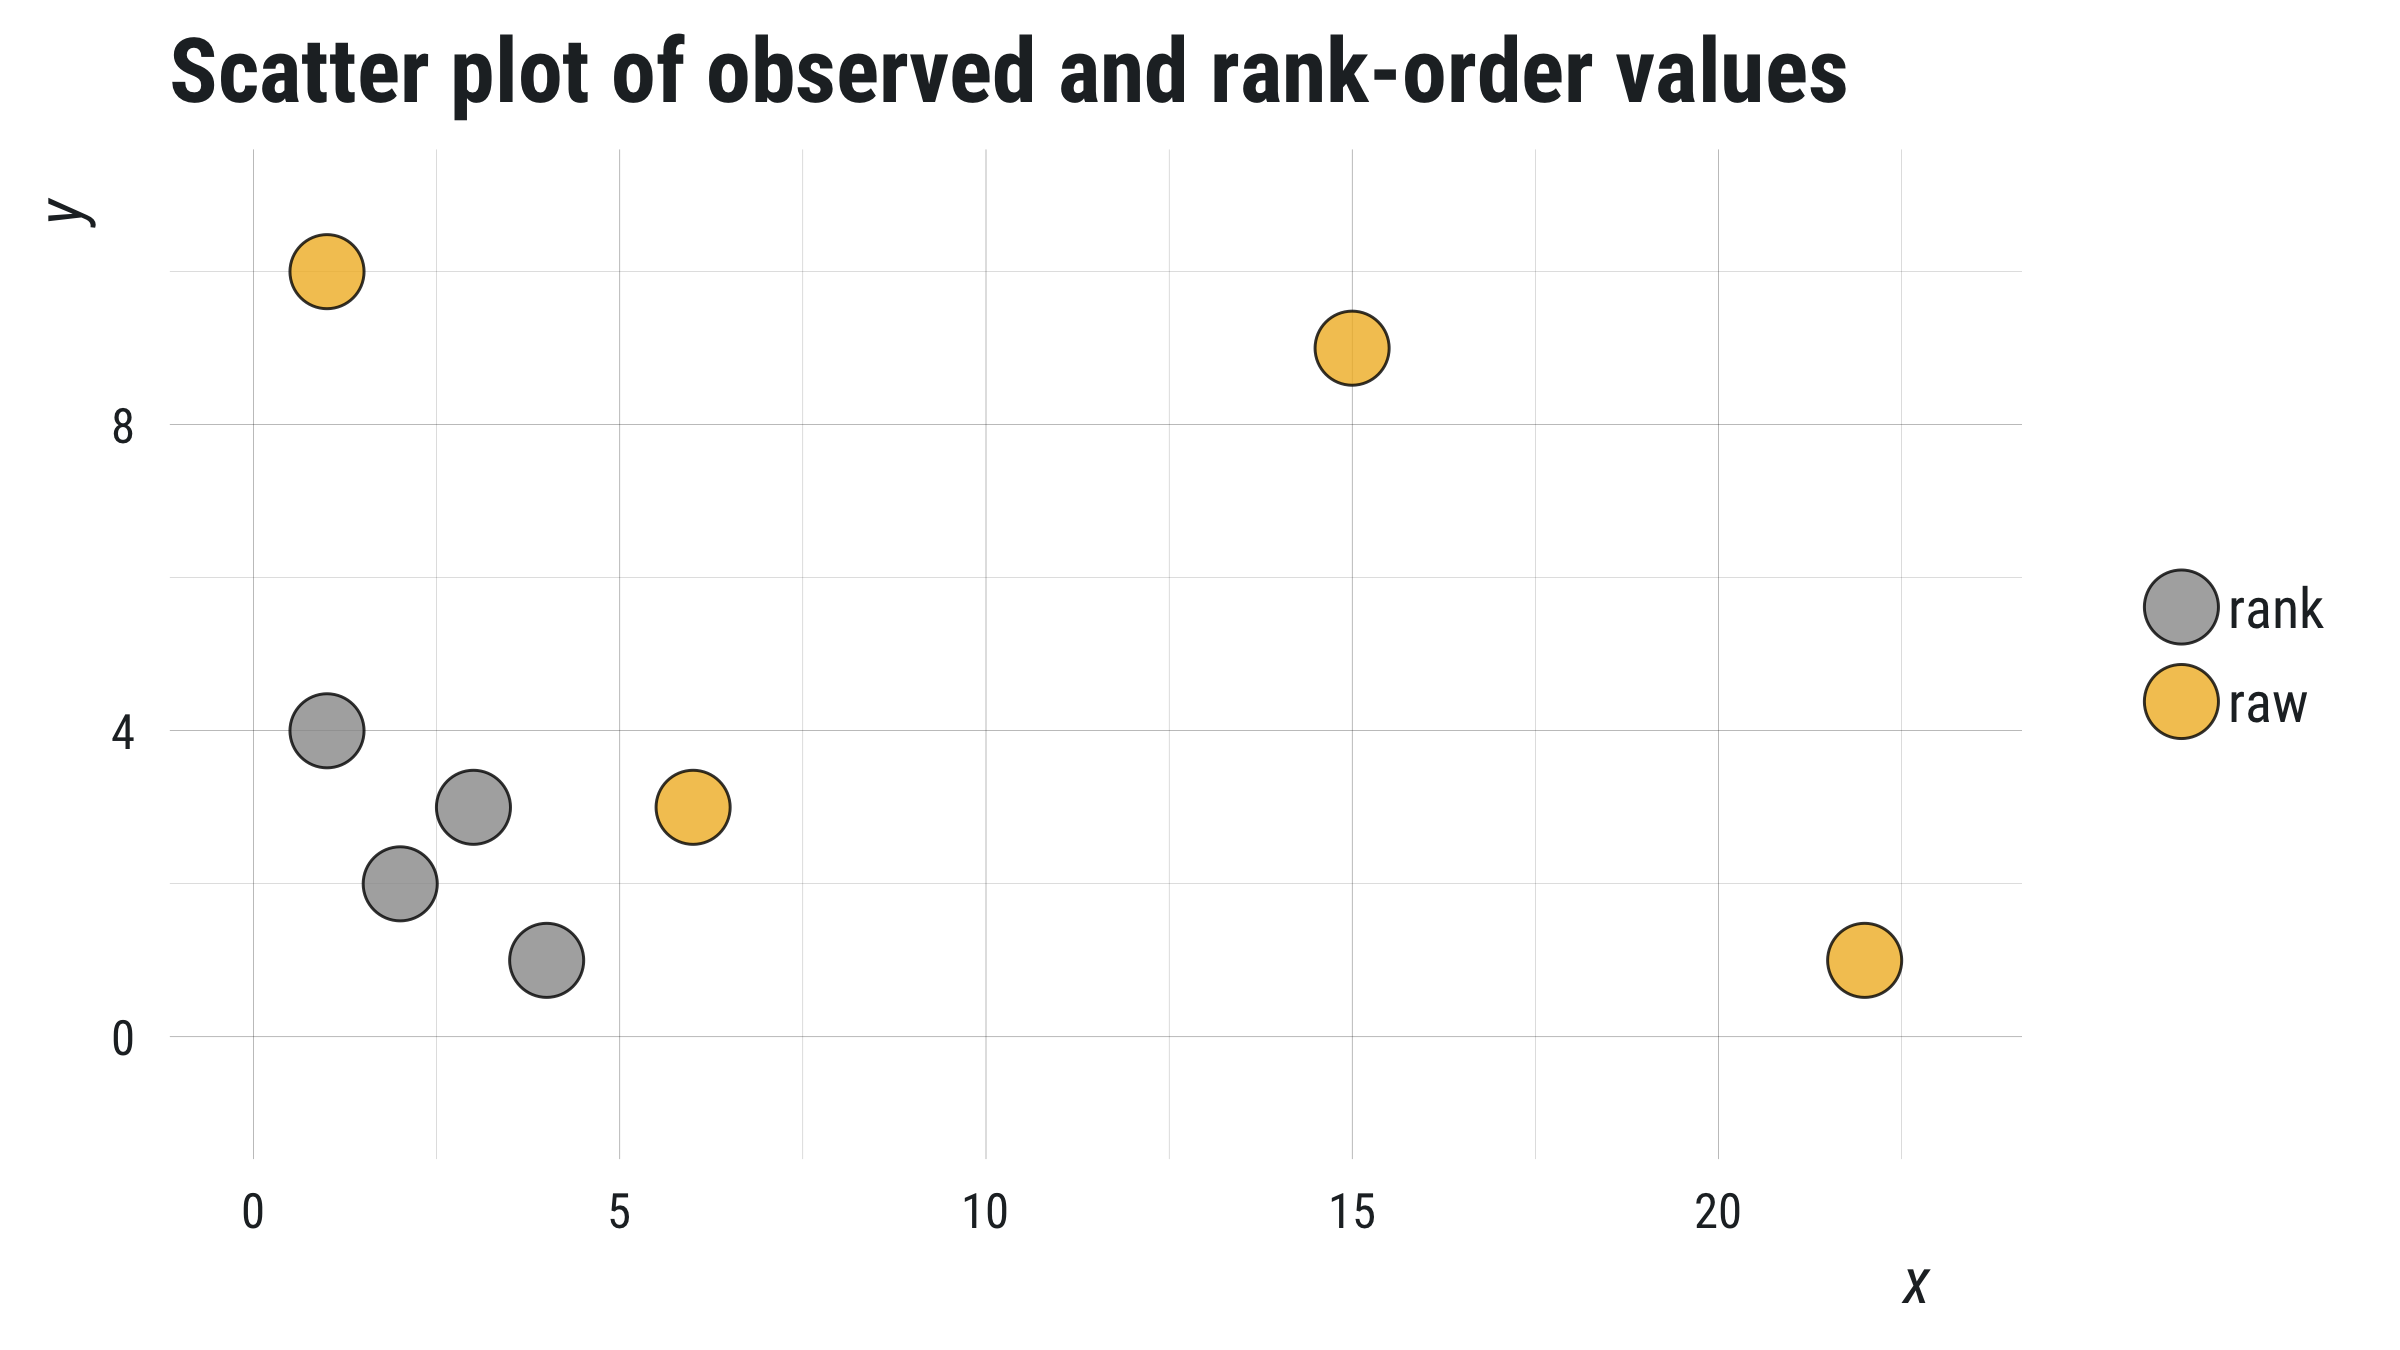
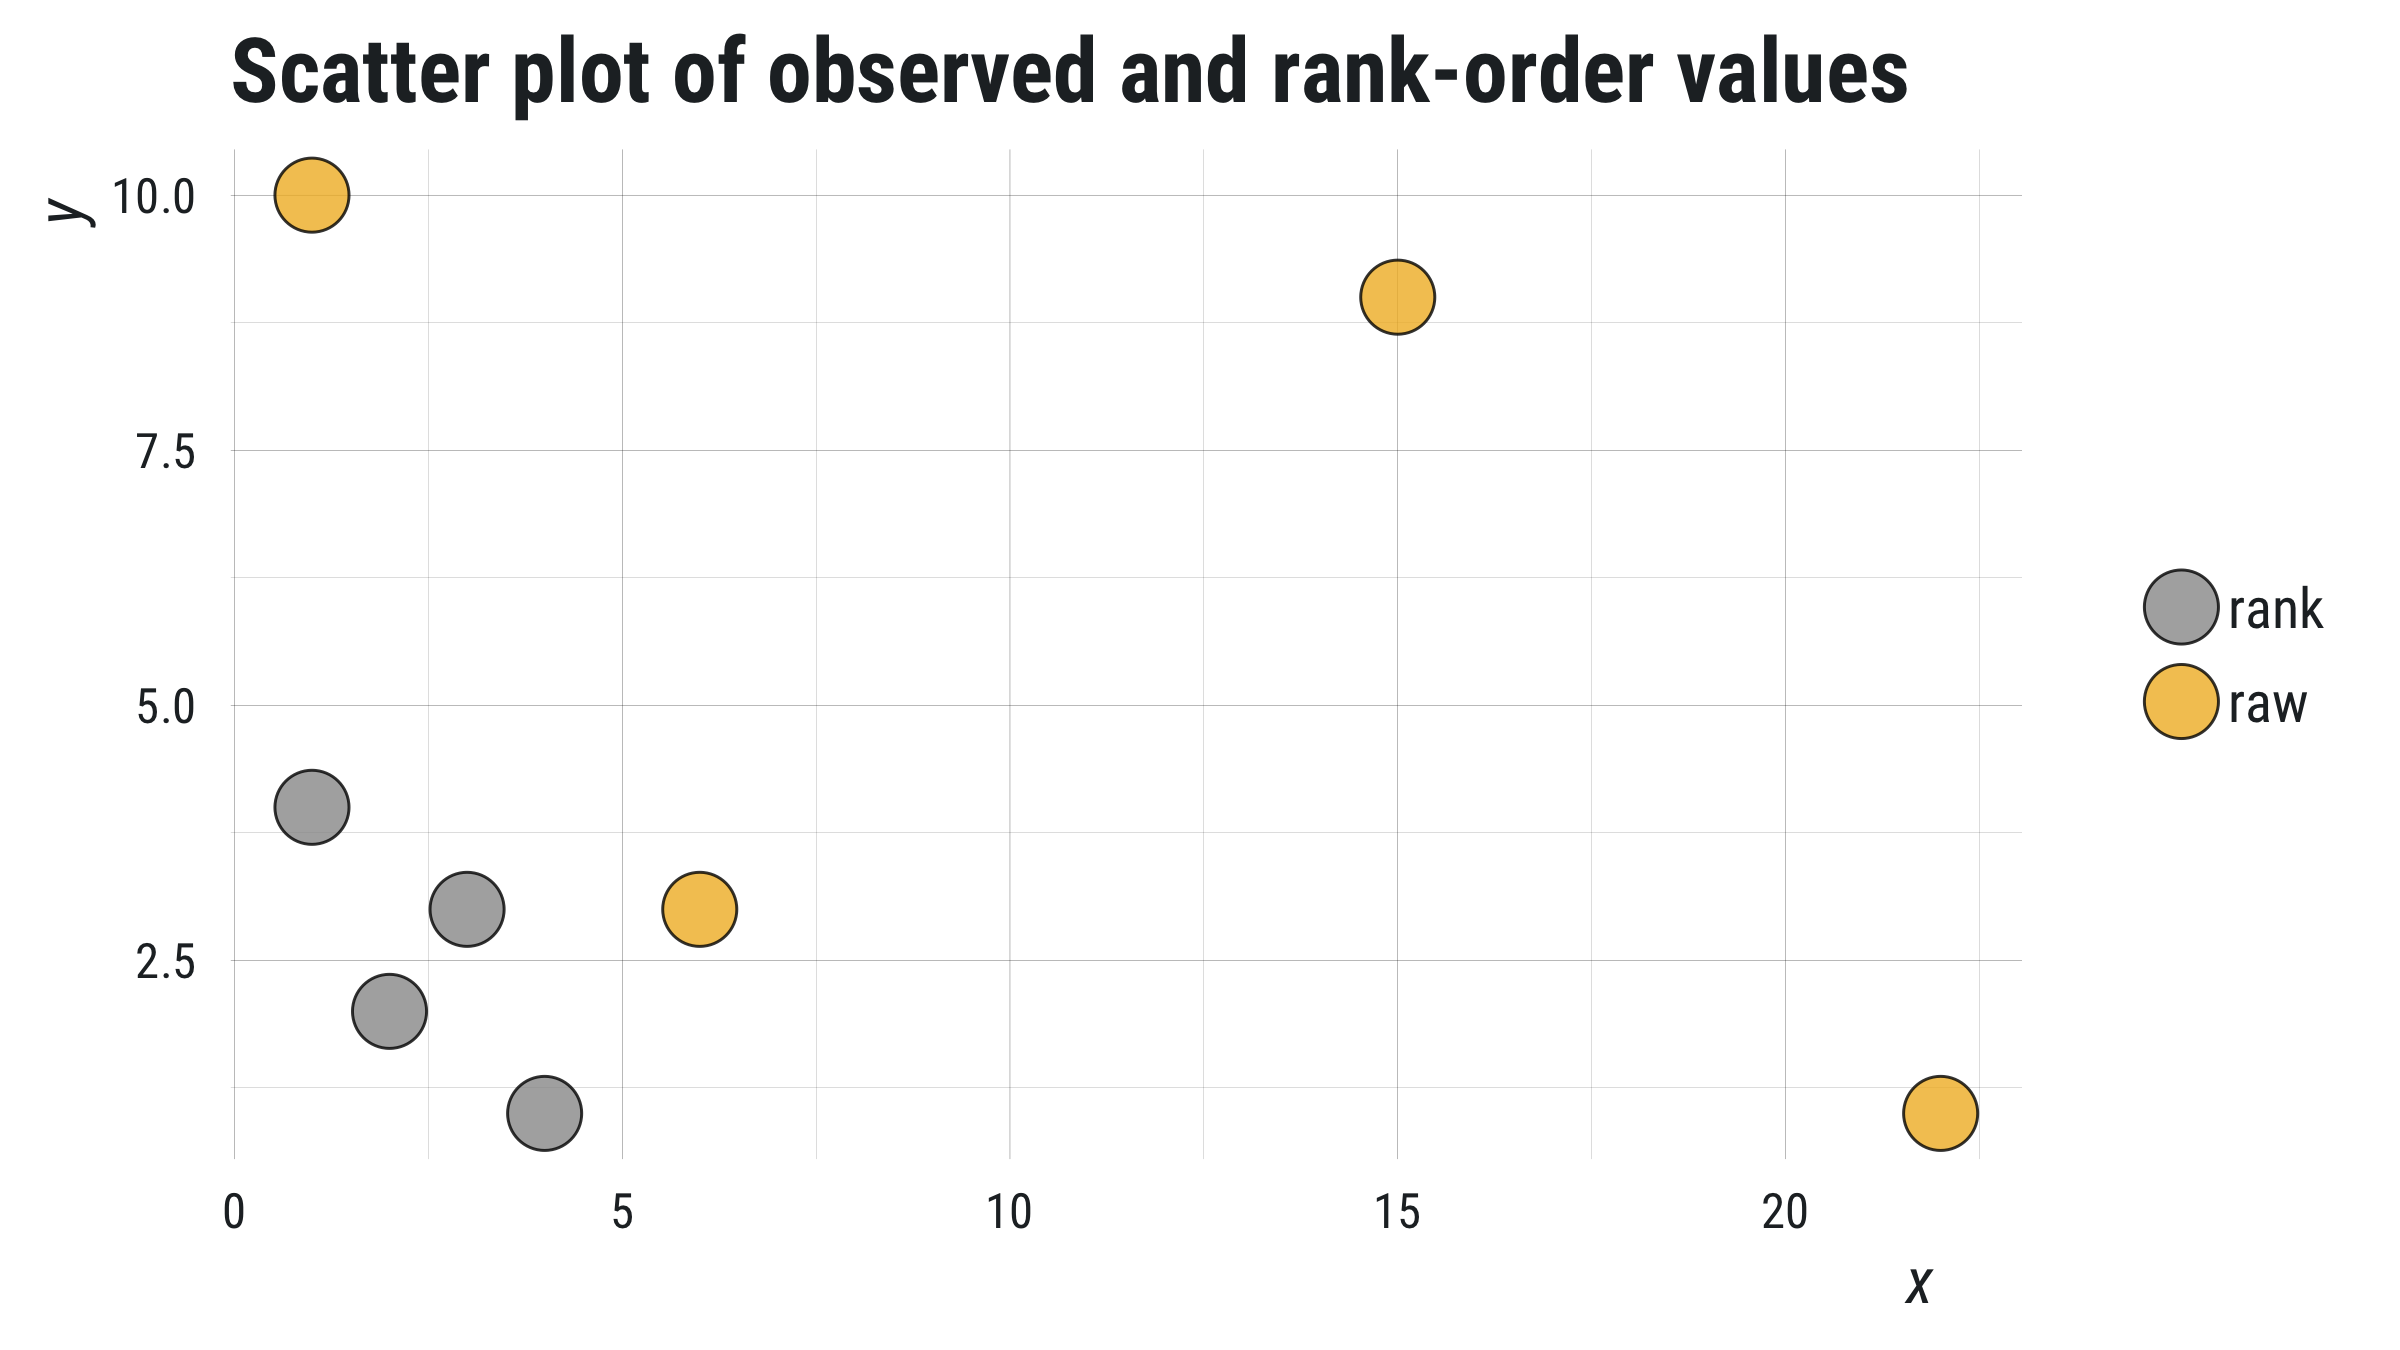
fix scatter rank plot

diff --git a/docs/slides/04-slides.html b/docs/slides/04-slides.html
@@ -260,7 +260,7 @@ df &lt;- data_frame(
 ```r
 ggplot(df, aes(x = x, y = y, fill = data)) + 
   geom_point(shape = 21, size = 8, alpha = .8) + 
-  labs(title = "Scatter plot of observed and rank-order values") + ylim(-1, 11) + xlim(0, 23) +
+  labs(title = "Scatter plot of observed and rank-order values") + 
   scale_fill_manual(values = c(raw = "#F1B82D", rank = "#999999")) + 
   ggsave("img/scatter_plot-xy.png", width = 8, height = 4.5, units = "in")
 ```

diff --git a/static/slides/04-slides.html b/static/slides/04-slides.html
@@ -260,7 +260,7 @@ df &lt;- data_frame(
 ```r
 ggplot(df, aes(x = x, y = y, fill = data)) + 
   geom_point(shape = 21, size = 8, alpha = .8) + 
-  labs(title = "Scatter plot of observed and rank-order values") + ylim(-1, 11) + xlim(0, 23) +
+  labs(title = "Scatter plot of observed and rank-order values") + 
   scale_fill_manual(values = c(raw = "#F1B82D", rank = "#999999")) + 
   ggsave("img/scatter_plot-xy.png", width = 8, height = 4.5, units = "in")
 ```
